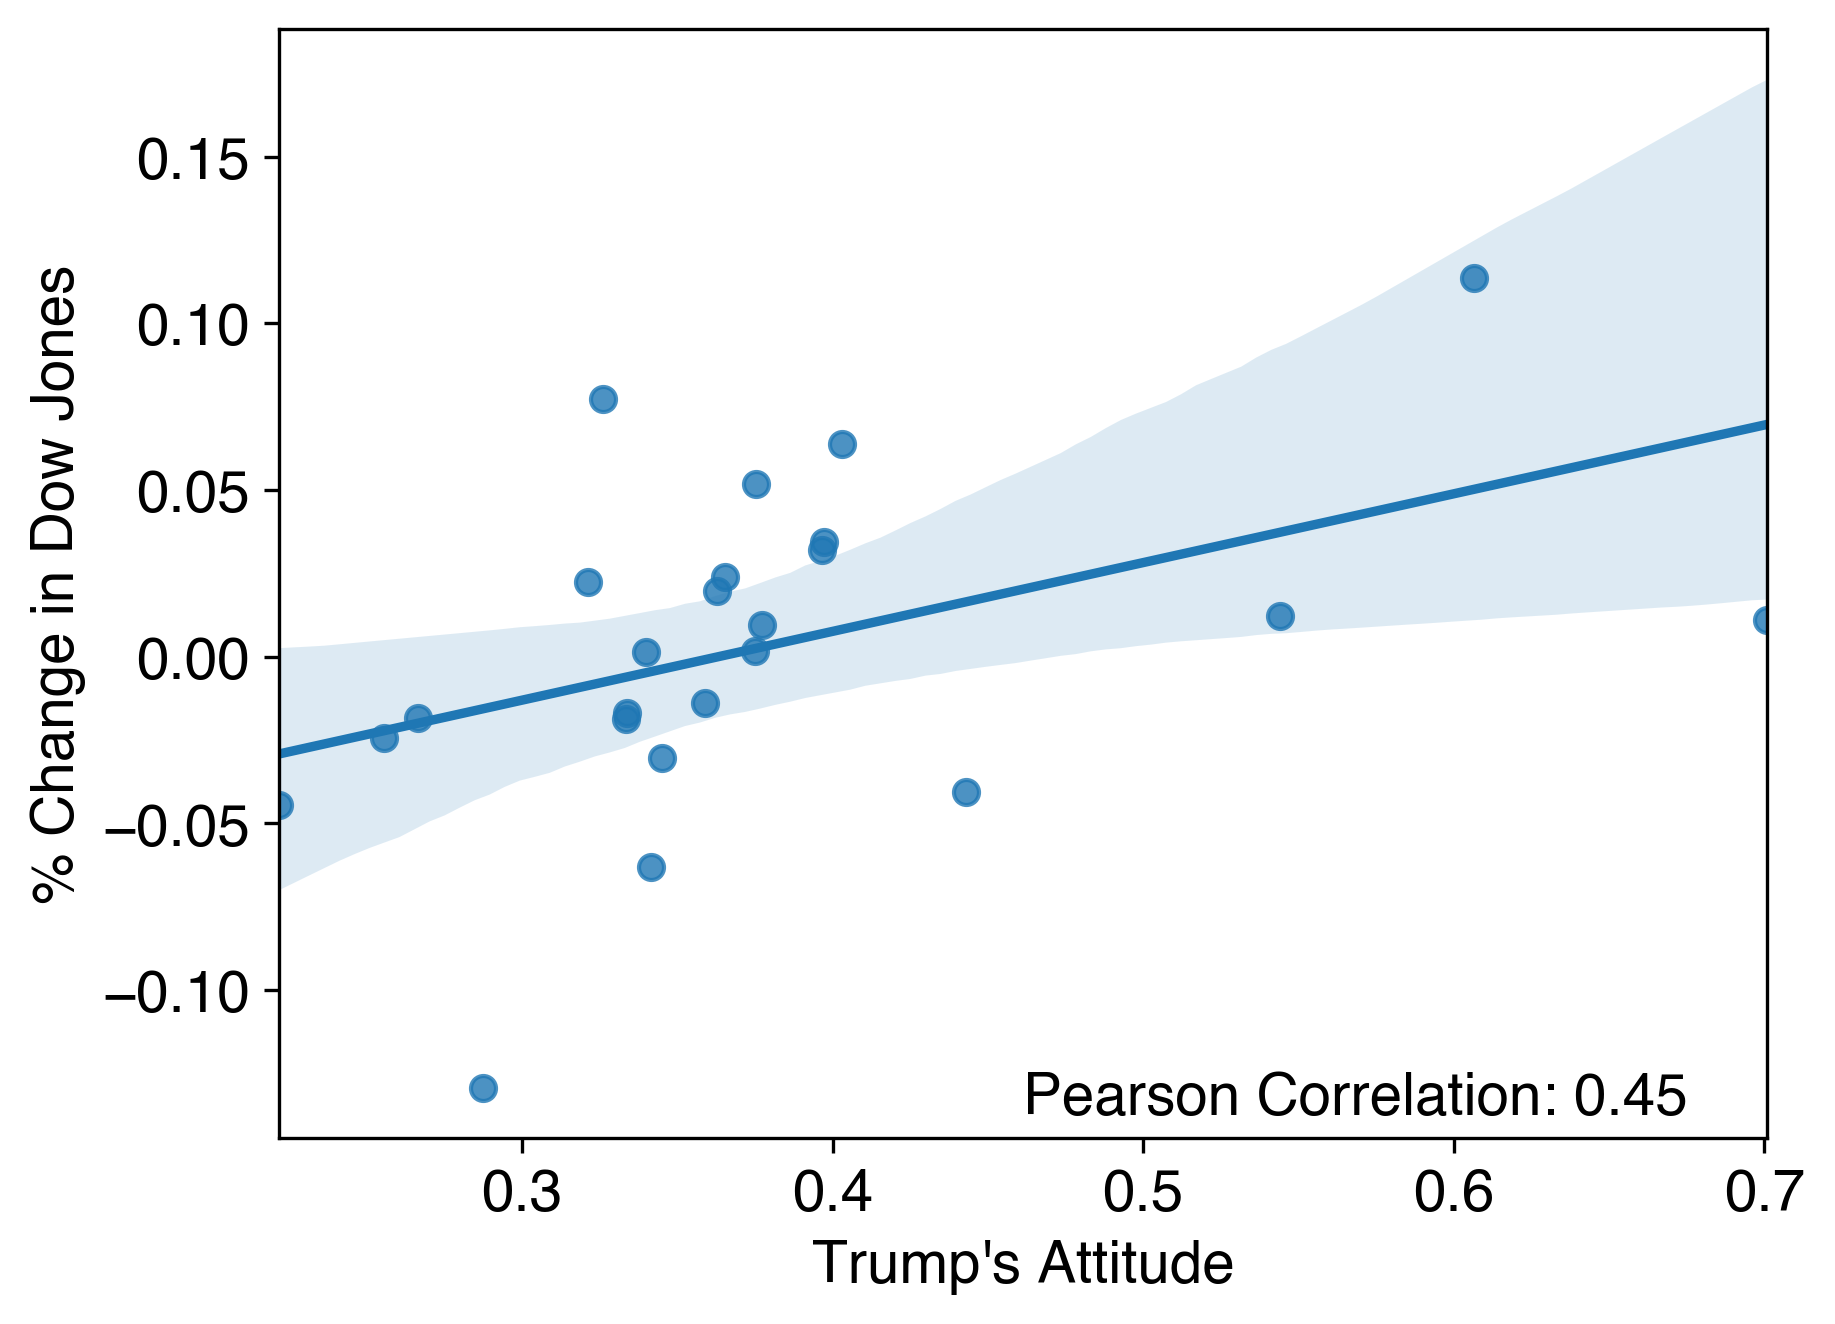
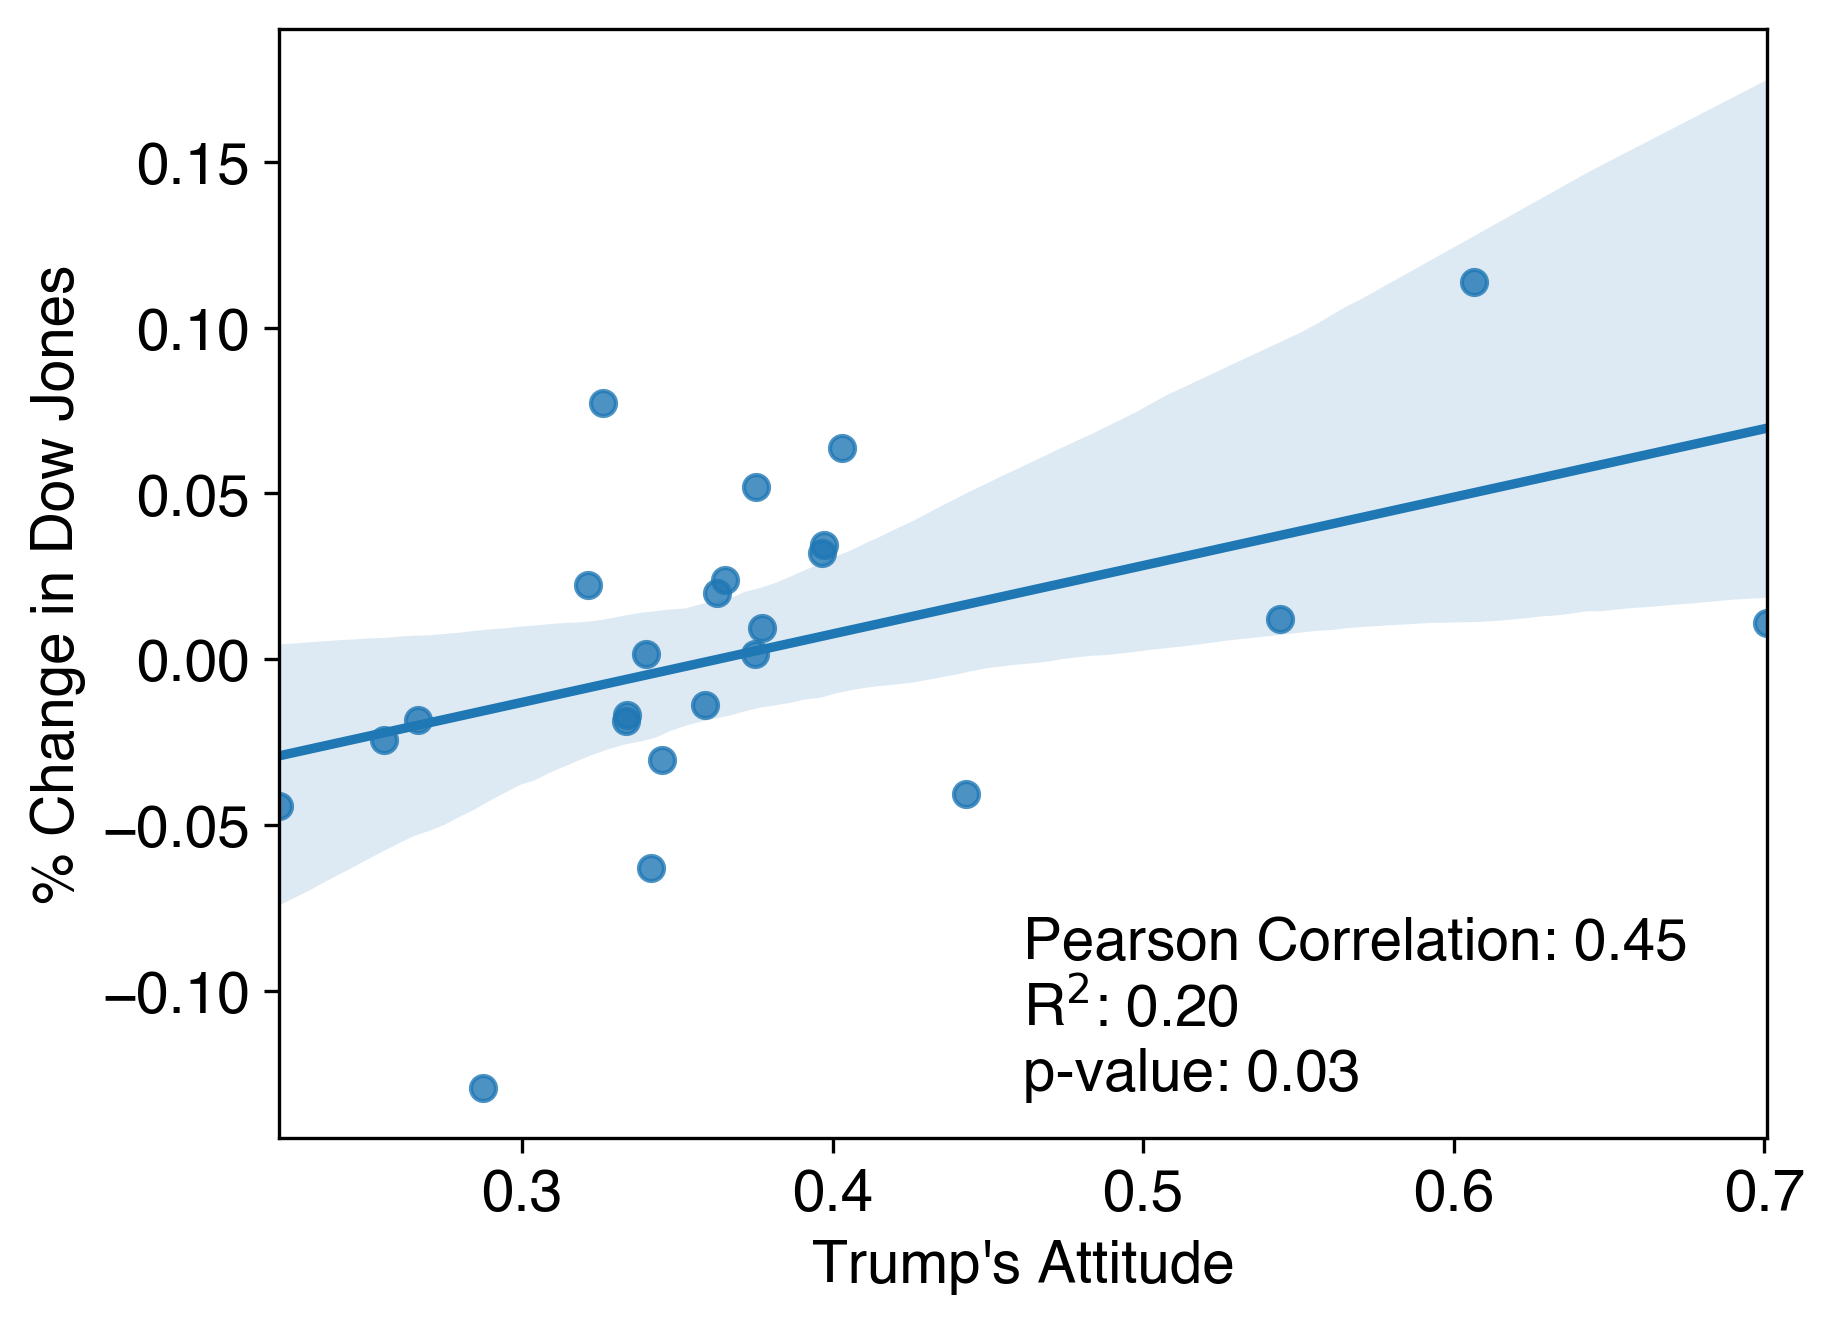
add pvalue

diff --git a/_posts/2020-5-9-trump-covid.md b/_posts/2020-5-9-trump-covid.md
@@ -181,7 +181,7 @@ To investigate, I plotted Trump's sentiment versus the percent change in the clo
 <img alt="" src="{{ site.baseurl }}/assets/sentiment_vs_djia.png" width="800" />
 </p>
 
-We can actually make the correlation between stock market and Trump's mood a bit tighter. Below we have a regression plot, and find that the Pearson correlation is around +0.45. Note that we don't include the cases where Trump gives a briefing on a weekend or holiday! (Which shouldn't be correlated with the markets.) This is good enough to say that there is likely a moderate positive correlation between Trump's sentiment and the market performance. Makes sense, as he prides himself on his business acumen and being able to keep the American economy strong. (No comment if that corresponds to reality.)
+We can actually make the correlation between stock market and Trump's mood a bit tighter. Below we have a regression plot, and find that the Pearson correlation is around +0.45. Note that we don't include the cases where Trump gives a briefing on a weekend or holiday! (Which shouldn't be correlated with the markets.) We also see that the R<sup>2</sup> is 0.2 with a p-value of 0.03. So the Dow daily variation can account for 20% of Trump's sentiment and is statistically significant (p-value < 0.05). This is good enough to say that there is likely a moderate positive correlation between Trump's sentiment and the market performance. Makes sense, as he prides himself on his business acumen and being able to keep the American economy strong. (No comment if that corresponds to reality.)
 
 <p align="center">
 <img alt="" src="{{ site.baseurl }}/assets/sentiment_vs_djia_correlation.png" width="800" />
